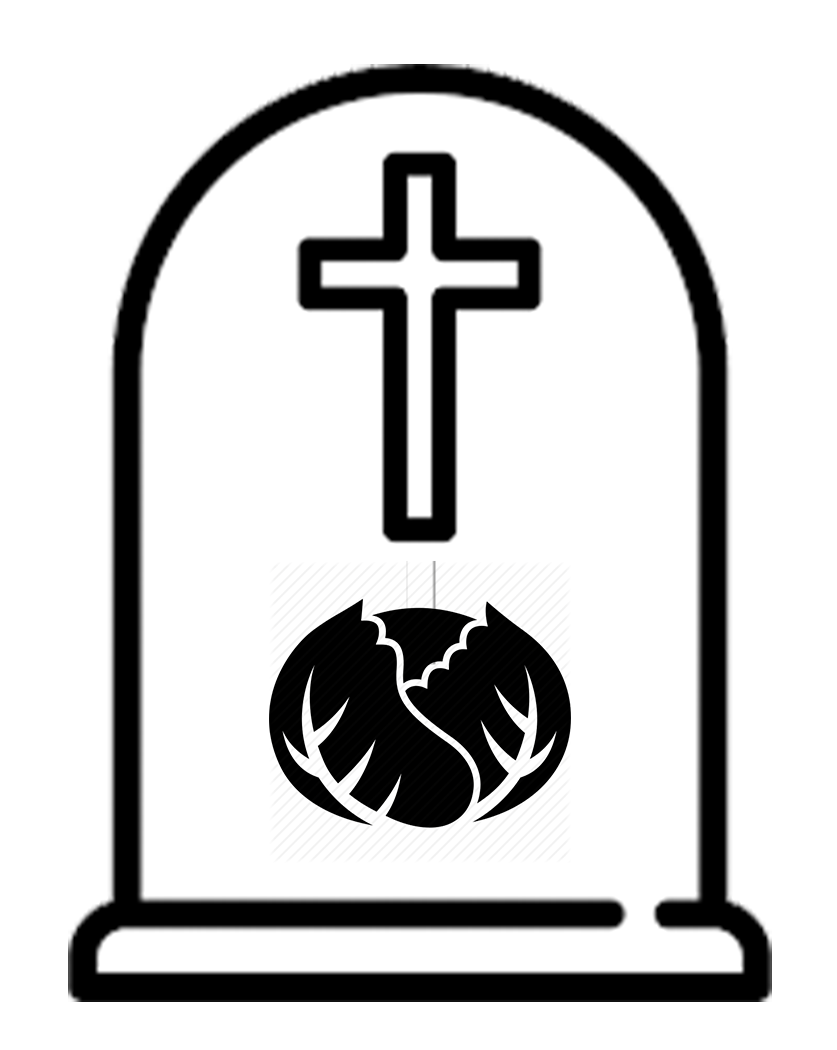
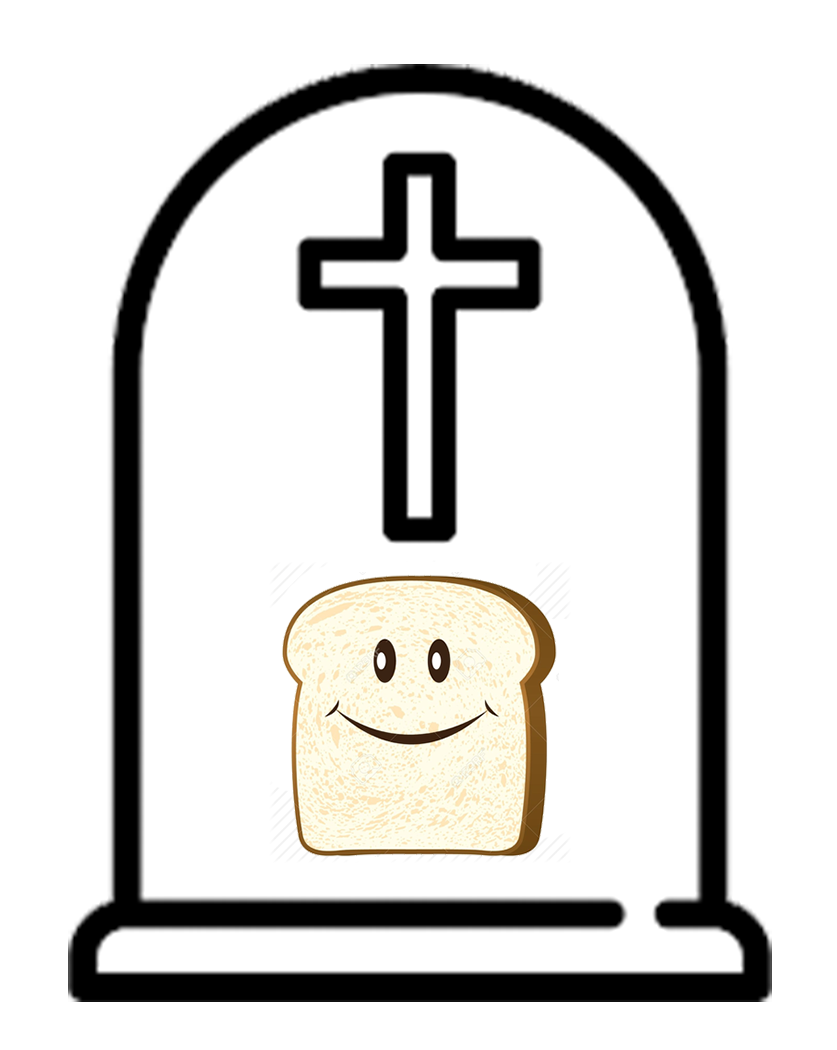
Kivy v2.2
Changed some button images

Changed region(s): [[0.3106, 0.5486, 0.6834, 0.8229]]

diff --git a/foodBeltApp v2.2.py b/foodBeltApp v2.2.py
@@ -13,6 +13,7 @@ from kivy.uix.stacklayout import StackLayout
 from kivy.uix.relativelayout import RelativeLayout
 from kivy.uix.behaviors import ButtonBehavior
 from kivy.properties import BooleanProperty
+from kivy.graphics import Rectangle
 from firebase import firebase
 import datetime
 
@@ -35,6 +36,7 @@ alarm_off_img = "alarm_off.png"
 background_img = "background.jpg"
 expiring_img = "expiring.png"
 expired_img = "expired.png"
+highlight_img = "highlight.png"
 
 #Testing data
 food_list_test= [["Celery","050317",True],["Will to Live","100317",None],["Carrot","011218",None],["Potato","121219",None]]
@@ -180,17 +182,19 @@ class FoodScreen(Screen):
         # MainGrid containing everything
         self.mainGrid = GridLayout(rows = 3)
         
-        # FoodGrid containing food items
-        self.foodGrid = GridLayout(cols=3,row_force_default=True, row_default_height=40)
+        # FoodGrid containing FoodGrid rows containing food items
+        self.foodGrid = GridLayout(cols=3,row_force_default=True, row_default_height=50,size_hint_y=None)
+
         for food in food_list:
-            self.foodGrid.add_widget(Label(text = food[0],size_hint=(.4,.1),color=[0,0,0,1]))
-            self.foodGrid.add_widget(Label(text = time_to_expiry(food[1]),size_hint=(.4,.1),color=[0,0,0,1]))
+            self.foodGrid.add_widget(Label(text = food[0],size_hint=(.4,.2),color=[0,0,0,1]))
+            self.foodGrid.add_widget(Label(text = time_to_expiry(food[1]),size_hint=(.4,.2),color=[0,0,0,1]))
             if near_expiry(time_to_expiry(food[1])):
-                self.foodGrid.add_widget(Image(source = expiring_img,size_hint=(.2,.1)))
+                self.foodGrid.add_widget(Image(source = expiring_img,size_hint=(.2,.2)))
             elif time_to_expiry(food[1]) == "Expired":
-                self.foodGrid.add_widget(Image(source = expired_img,size_hint=(.2,.1)))
+                self.foodGrid.add_widget(Image(source = expired_img,size_hint=(.2,.2)))
             else:
-                self.foodGrid.add_widget(Label(text = "",size_hint=(.2,.1),color=[0,0,0,1]))
+                self.foodGrid.add_widget(Label(text = "",size_hint=(.2,.2),color=[0,0,0,1]))
+            
         # Make sure the height is such that there is something to scroll.
         self.foodGrid.bind(minimum_height = self.foodGrid.setter('height'))
         self.scrollView.add_widget(self.foodGrid)
@@ -214,7 +218,7 @@ class FoodScreen(Screen):
         self.mainGrid.add_widget(self.headers)
         self.mainGrid.add_widget(self.scrollView)
         self.mainGrid.add_widget(self.footer)
-        self.add_widget(Image(source = background_img,size_hint=(1,1),keep_ratio = False,allow_stretch=True))
+        self.add_widget(Image(source = background_img, size_hint=(1,1),keep_ratio = False,allow_stretch=True))
         self.add_widget(self.mainGrid)
 
     def remove_buzzer(self,instance,value):
@@ -222,12 +226,15 @@ class FoodScreen(Screen):
         self.footer.remove_widget(self.addButton)
         self.footer.add_widget(self.homeButton)
         self.footer.add_widget(self.addButton)
+        
+    def update_highlight(self,instance, value):
+        instance.rect.pos = instance.pos
+        instance.rect.size = instance.size
 
 
 
 
-
-
+                
 class AddScreen(Screen):
     validList = [False] * 2
     validateLabelList = []
